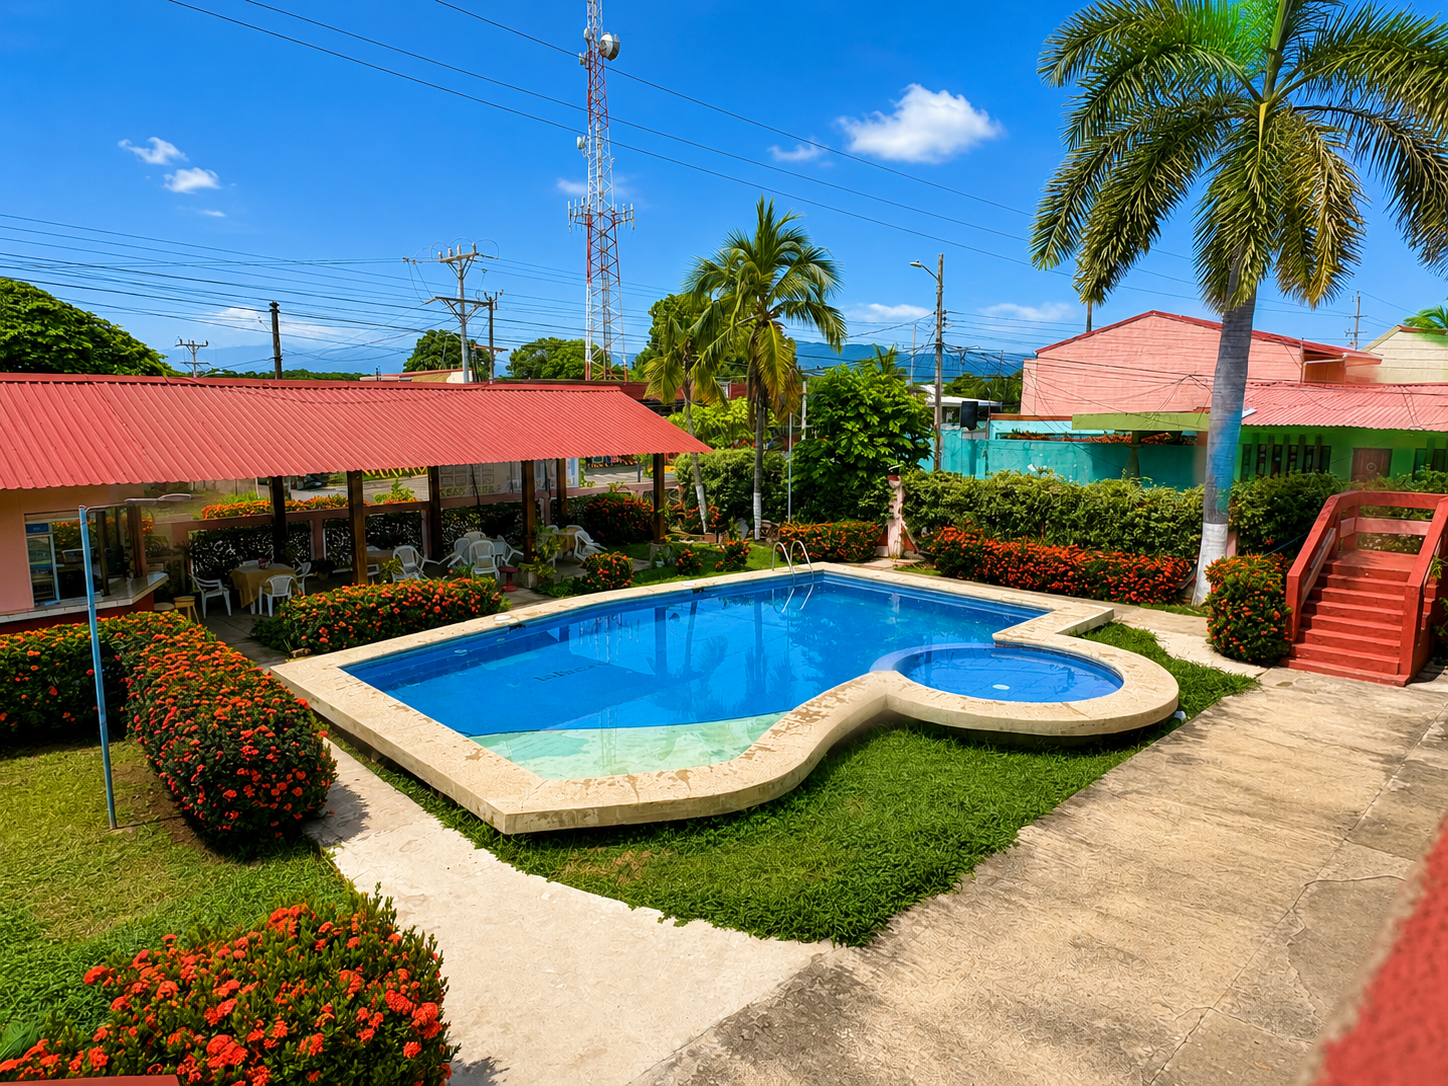
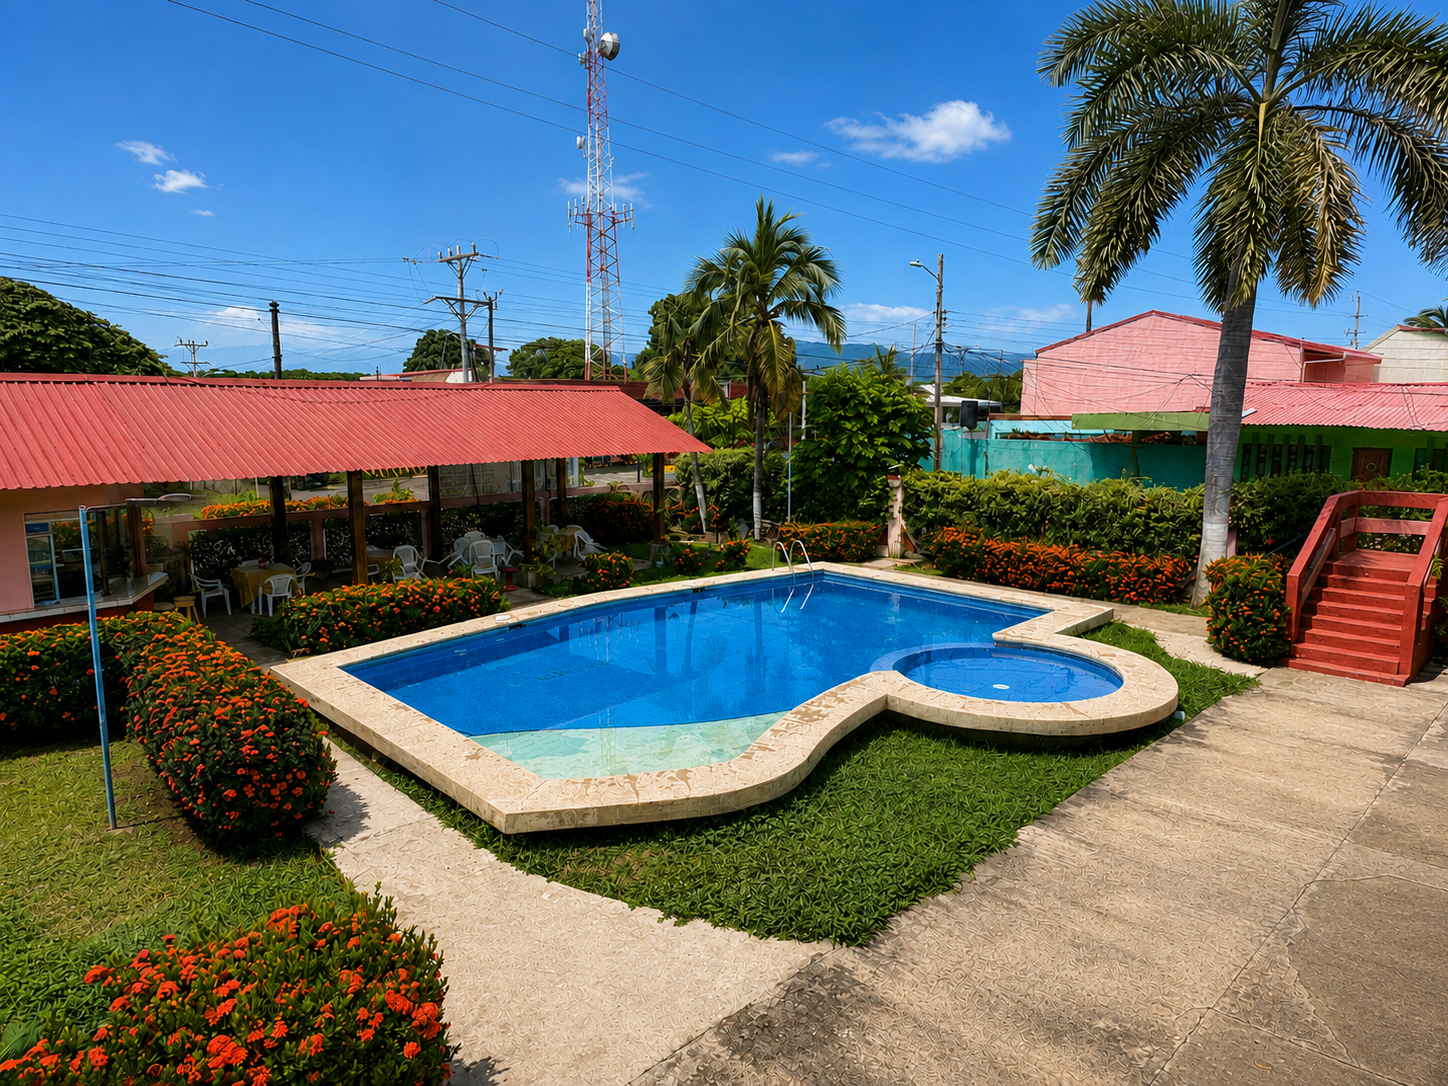
feat: add stay section and gallery lightbox

diff --git a/frontend/src/data/gallery.ts b/frontend/src/data/gallery.ts
@@ -1,0 +1,129 @@
+import type { ImageMetadata } from "astro";
+import poolOverview from "../assets/images/piscina/Vista de la piscina esquina derecha desde arriba, sol.png";
+import poolTerrace from "../assets/images/piscina/Foto Piscina y mesas lado soda desde abajo sol.png";
+import poolGarden from "../assets/images/piscina/Planta piscina y hotel de fondo sol.png";
+import poolBalcony from "../assets/images/piscina/Vista de la piscina esquina izquierda desde arriba, sol.png";
+import palms from "../assets/images/exteriores/Palmeras entradas al hotel al frente de soda sol.png";
+import cactus from "../assets/images/exteriores/Foto cactus con fondo de piscina y hotel sol.png";
+import courtyard from "../assets/images/exteriores/Foto piscina desde el lado de la soda sol.png";
+import sloth from "../assets/images/exteriores/Oso peresozo  sol.png";
+import sea from "../assets/images/mar/Vista trasera Playa sol.png";
+import leftWalkway from "../assets/images/pasillos/Pasillo izquierdo arriba sol.png";
+import mainWalkway from "../assets/images/pasillos/Pasillo principal arriba sol.png";
+import rearWalkway from "../assets/images/pasillos/Pasillo trasero arriba sol.png";
+import receptionEntrance from "../assets/images/entrada-parqueo/Entrada principal hotel con vista a la recepcion y parqueo de fondo sol.png";
+import parkingEntrance from "../assets/images/entrada-parqueo/Foto entrada al hotel con vista a todo el parqueo, sol.png";
+import rearParking from "../assets/images/entrada-parqueo/Parqueo parte trase desde arriba sol.png";
+
+const currentPoolOverview = { ...poolOverview };
+
+// En desarrollo Astro conserva la URL al reemplazar una foto con el mismo nombre.
+// Vite renueva esta revisión al recargar el módulo o cambiar la imagen importada.
+// Producción conserva las URLs con hash que genera Astro.
+if (import.meta.env.DEV) {
+  const separator = currentPoolOverview.src.includes("?") ? "&" : "?";
+  currentPoolOverview.src += `${separator}v=${Date.now().toString(36)}`;
+}
+
+export interface GalleryPhoto {
+  image: ImageMetadata;
+  alt: string;
+  caption: string;
+  category: string;
+  featured?: boolean;
+}
+
+export const galleryPhotos: GalleryPhoto[] = [
+  {
+    image: currentPoolOverview,
+    alt: "Piscina del hotel rodeada de jardines y palmeras, vista desde arriba",
+    caption: "Un momento junto a la piscina",
+    category: "Piscina",
+    featured: true,
+  },
+  {
+    image: poolTerrace,
+    alt: "Piscina y mesas junto a la soda del hotel",
+    caption: "Piscina y espacios para compartir",
+    category: "Piscina",
+  },
+  {
+    image: poolGarden,
+    alt: "Vegetación con la piscina y el edificio del hotel al fondo",
+    caption: "Jardines junto a la piscina",
+    category: "Piscina",
+  },
+  {
+    image: poolBalcony,
+    alt: "Vista de la piscina desde el balcón izquierdo del hotel",
+    caption: "La piscina desde el balcón",
+    category: "Piscina",
+  },
+  {
+    image: palms,
+    alt: "Palmeras y jardines junto a la escalera roja del hotel",
+    caption: "Entre palmeras y jardines",
+    category: "Exteriores",
+    featured: true,
+  },
+  {
+    image: cactus,
+    alt: "Cactus del jardín con la piscina y el hotel al fondo",
+    caption: "Detalles de nuestros jardines",
+    category: "Exteriores",
+  },
+  {
+    image: courtyard,
+    alt: "Vista de la piscina desde el lado de la soda",
+    caption: "Los exteriores del hotel",
+    category: "Exteriores",
+  },
+  {
+    image: sloth,
+    alt: "Perezoso fotografiado entre la vegetación",
+    caption: "Decoración del entorno",
+    category: "Exteriores",
+  },
+  {
+    image: sea,
+    alt: "Vista del mar y las palmeras desde la parte trasera del hotel",
+    caption: "El Pacífico, a pasos del hotel",
+    category: "Mar",
+  },
+  {
+    image: leftWalkway,
+    alt: "Pasillo izquierdo de la planta alta del hotel",
+    caption: "Pasillo izquierdo",
+    category: "Pasillos",
+  },
+  {
+    image: mainWalkway,
+    alt: "Pasillo principal de la planta alta del hotel",
+    caption: "Pasillo principal",
+    category: "Pasillos",
+  },
+  {
+    image: rearWalkway,
+    alt: "Pasillo trasero de la planta alta del hotel",
+    caption: "Pasillo trasero",
+    category: "Pasillos",
+  },
+  {
+    image: receptionEntrance,
+    alt: "Entrada principal con vista hacia la recepción y el parqueo",
+    caption: "La llegada al hotel",
+    category: "Entrada y parqueo",
+  },
+  {
+    image: parkingEntrance,
+    alt: "Entrada del hotel con vista al área de estacionamiento",
+    caption: "Entrada y estacionamiento",
+    category: "Entrada y parqueo",
+  },
+  {
+    image: rearParking,
+    alt: "Área de parqueo trasera vista desde la planta alta",
+    caption: "Estacionamiento en la parte trasera del hotel",
+    category: "Entrada y parqueo",
+  },
+];

diff --git a/frontend/src/components/ui/gallery-lightbox.ts b/frontend/src/components/ui/gallery-lightbox.ts
@@ -1,0 +1,113 @@
+interface GallerySlide {
+  src: string;
+  alt: string;
+  caption: string;
+  category: string;
+}
+
+class HotelGallery extends HTMLElement {
+  private cleanup?: () => void;
+
+  connectedCallback() {
+    this.cleanup?.();
+    const dialog = this.querySelector<HTMLDialogElement>("dialog");
+    const openButton = this.querySelector<HTMLButtonElement>("[data-gallery-open]");
+    const closeButton = this.querySelector<HTMLButtonElement>("[data-gallery-close]");
+    const previous = this.querySelector<HTMLButtonElement>("[data-gallery-previous]");
+    const next = this.querySelector<HTMLButtonElement>("[data-gallery-next]");
+    const image = this.querySelector<HTMLImageElement>("[data-gallery-image]");
+    const caption = this.querySelector<HTMLElement>("[data-gallery-caption]");
+    const counter = this.querySelector<HTMLElement>("[data-gallery-counter]");
+    const status = this.querySelector<HTMLElement>("[data-gallery-status]");
+    const data = this.querySelector<HTMLScriptElement>("[data-gallery-images]");
+
+    if (!dialog || !openButton || !closeButton || !previous || !next || !image || !caption || !counter || !status || !data) return;
+
+    const slides: GallerySlide[] = JSON.parse(data.textContent ?? "[]");
+    if (!slides.length) return;
+
+    const events = new AbortController();
+    const options = { signal: events.signal };
+    let current = 0;
+    let savedOverflow: string | undefined;
+
+    const restoreScroll = () => {
+      if (savedOverflow !== undefined) {
+        document.body.style.overflow = savedOverflow;
+        savedOverflow = undefined;
+      }
+    };
+
+    const show = (index: number) => {
+      current = (index + slides.length) % slides.length;
+      const slide = slides[current];
+      status.textContent = "Cargando foto…";
+      image.style.opacity = "0";
+      image.alt = slide.alt;
+      image.src = slide.src;
+      caption.textContent = slide.caption;
+      counter.textContent = `${current + 1} / ${slides.length} · ${slide.category}`;
+      if (image.complete && image.naturalWidth > 0) {
+        image.style.opacity = "1";
+        status.textContent = "";
+      }
+    };
+
+    image.addEventListener("load", () => {
+      image.style.opacity = "1";
+      status.textContent = "";
+    }, options);
+    image.addEventListener("error", () => {
+      image.style.opacity = "0";
+      status.textContent = "No se pudo cargar esta foto. Puedes seguir navegando.";
+    }, options);
+
+    openButton.addEventListener("click", () => {
+      if (dialog.open) return;
+      show(0);
+      dialog.showModal();
+      savedOverflow = document.body.style.overflow;
+      document.body.style.overflow = "hidden";
+    }, options);
+    closeButton.addEventListener("click", () => dialog.close(), options);
+    previous.addEventListener("click", () => show(current - 1), options);
+    next.addEventListener("click", () => show(current + 1), options);
+
+    dialog.addEventListener("keydown", (event) => {
+      if (event.key === "Escape") {
+        event.preventDefault();
+        dialog.close();
+      } else if (event.key === "Tab") {
+        const controls = [closeButton, previous, next];
+        const focused = controls.indexOf(document.activeElement as HTMLButtonElement);
+        const step = event.shiftKey ? -1 : 1;
+        event.preventDefault();
+        controls[(focused + step + controls.length) % controls.length].focus();
+      } else if (event.key === "ArrowLeft" || event.key === "ArrowRight") {
+        event.preventDefault();
+        show(current + (event.key === "ArrowRight" ? 1 : -1));
+      }
+    }, options);
+    dialog.addEventListener("click", (event) => {
+      if (event.target === dialog) dialog.close();
+    }, options);
+    dialog.addEventListener("close", () => {
+      restoreScroll();
+      openButton.focus({ preventScroll: true });
+    }, options);
+
+    this.cleanup = () => {
+      events.abort();
+      if (dialog.open) dialog.close();
+      restoreScroll();
+    };
+  }
+
+  disconnectedCallback() {
+    this.cleanup?.();
+  }
+}
+
+if (!customElements.get("hotel-gallery")) {
+  customElements.define("hotel-gallery", HotelGallery);
+}
